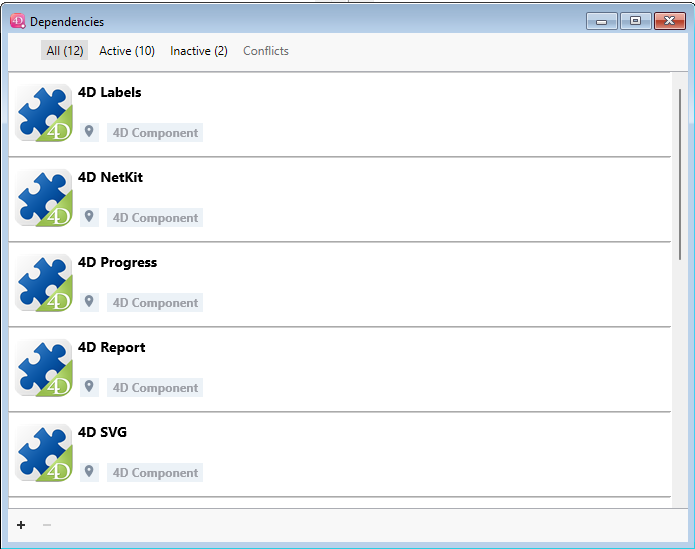
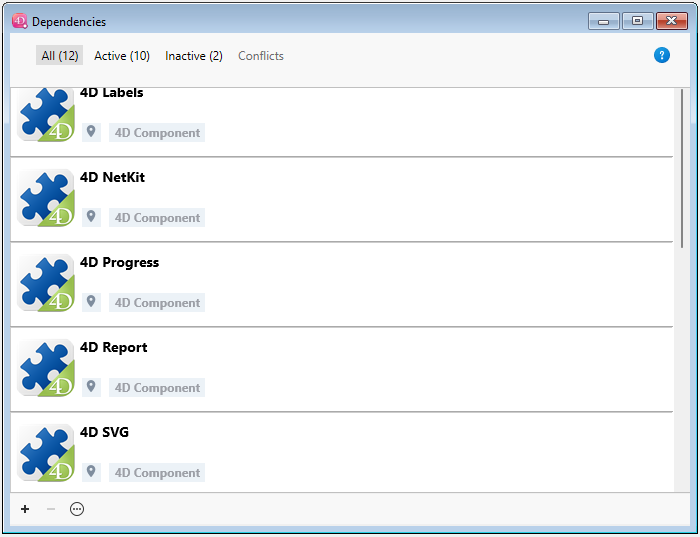
2nd draft

Changed region(s): [[0.0, 0.0, 1.0, 1.0]]

diff --git a/docs/Project/components.md b/docs/Project/components.md
@@ -331,30 +331,33 @@ To display the Dependencies panel:
 - with 4D Server, select the **Window/Project Dependencies** menu item.<br/>
 ![dependency-menu-server](../assets/en/Project/dependency-menu-server.png)
 
-The Dependency panel is then displayed. Dependencies are sorted by name in alphabetical order:
+The Dependencies panel is then displayed. Dependencies are sorted by name in alphabetical order:
 
 ![dependency](../assets/en/Project/dependency.png)
 
 
-The Dependencies panel interface allows you to manage dependencies (on 4D single-user and 4D Server). You can add and remove local or GitHub dependencies.
+The Dependencies panel interface allows you to manage dependencies (on 4D single-user and 4D Server). You can add or remove **local** and **GitHub** dependencies.
 
 
 
 ### Adding a local dependency
 
-To add a local dependency, click on the **+** button in the bottom left area of the panel, select the **Local** tab and click on the **...** button. 
+To add a local dependency, click on the **+** button in the footer area of the panel. The following dialog box is displayed:
 
 ![dependency-add](../assets/en/Project/dependency-add.png)
 
-
- A standard Open file dialog box is displayed, allowing you to select the component to add. You can select a [**.4DZ**](../Desktop/building.md#build-component) or a [**.4DProject**](architecture.md##applicationname4dproject-file) file. 
+Make sure the **Local** tab is selected and click on the **...** button. A standard Open file dialog box is displayed, allowing you to select the component to add. You can select a [**.4DZ**](../Desktop/building.md#build-component) or a [**.4DProject**](architecture.md##applicationname4dproject-file) file. 
  
+ If the selected item is valid, its name and location are displayed in the dialog box. 
+ 
+ ![dependency-selected](../assets/en/Project/local-selected.png)
+
  If the selected item is not valid, an error message is displayed. 
- 
- If the selected item is valid, its name and location are displayed in the dialog box. Click **Add** to add the dependency to the project. 
 
-- If you select a component located next to the project package folder (default location), it is automatically declared in the [**dependencies.json**](#dependenciesjson) file.
-- If you select a component that is not located next to the project package folder, it is automatically declared in the [**dependencies.json**](#dependenciesjson) file and its path is declared in the [**environment4d.json**](#environmen4djson) file (see note). The Dependencies panel asks if you want to save a [relative or absolute path](#relative-paths-vs-absolute-paths).  
+ Click **Add** to add the dependency to the project. 
+
+- If you select a component located next to the project package folder (default location), it is declared in the [**dependencies.json**](#dependenciesjson) file.
+- If you select a component that is not located next to the project package folder, it is declared in the [**dependencies.json**](#dependenciesjson) file and its path is declared in the [**environment4d.json**](#environmen4djson) file (see note). The Dependencies panel asks if you want to save a [relative or absolute path](#relative-paths-vs-absolute-paths).  
 
 :::note
 
@@ -362,18 +365,20 @@ If no [**environment4d.json**](#environmen4djson) file is already defined for th
 
 :::
 
-The selected dependency is automatically added to the [inactive dependency list](#dependency-status). It will be loaded once the application restarts.
+The selected dependency is added to the [inactive dependency list](#dependency-status). It will be loaded once the application restarts.
 
 
 ### Adding a GitHub dependency
 
-To add a [GitHub dependency](#components-stored-on-github), click on the **+** button in the bottom left area of the panel and select the **GitHub** tab. 
+To add a [GitHub dependency](#components-stored-on-github), click on the **+** button in the footer area of the panel and select the **GitHub** tab. 
 
 ![dependency-add-git](../assets/en/Project/dependency-add-git.png)
 
-In the address area, enter the path of the GitHub component's repository. It includes your GitHub user account name and your repository, for example:
+Enter your GitHub user account name and the GitHub component's repository, for example:
 
 ![dependency-add-git-2](../assets/en/Project/dependency-add-git-2.png)
+
+If the 
 
 
 #### Providing your GitHub access token
